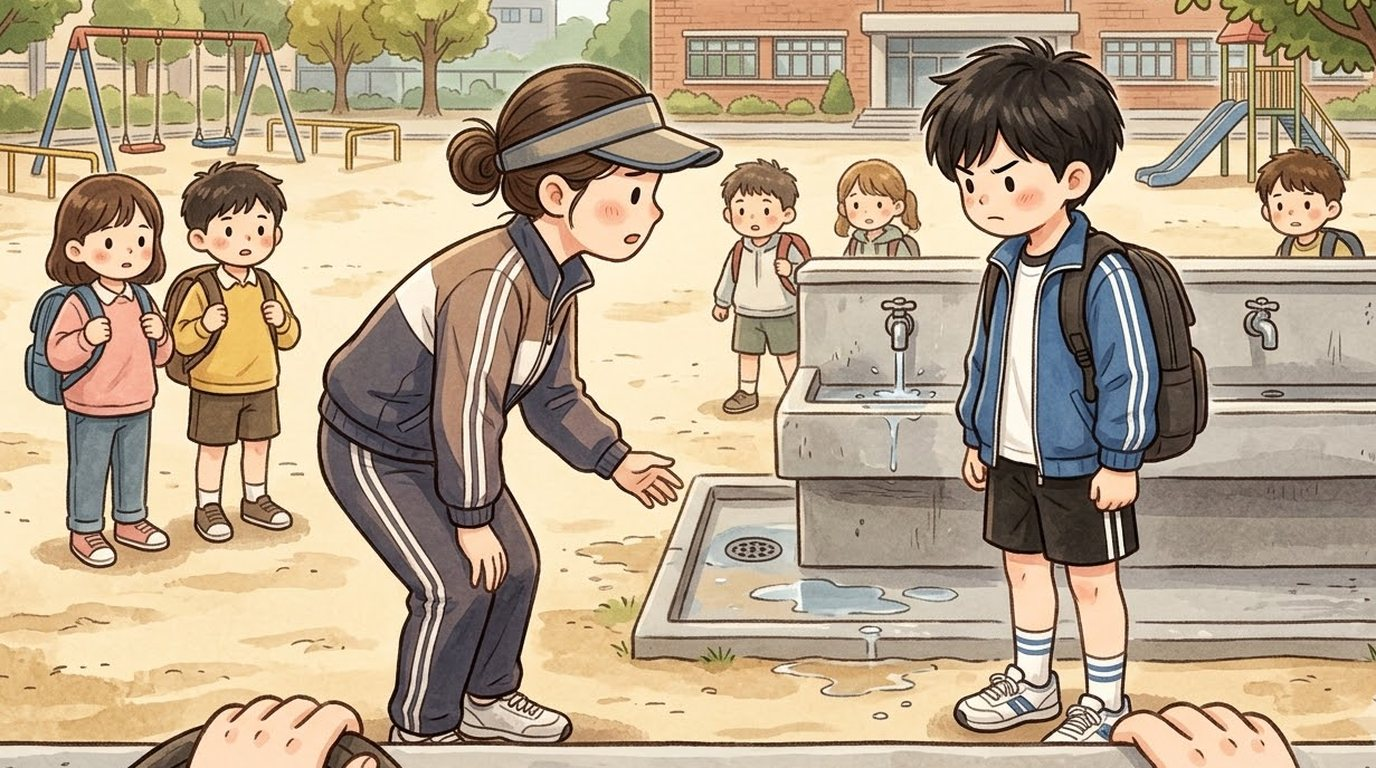
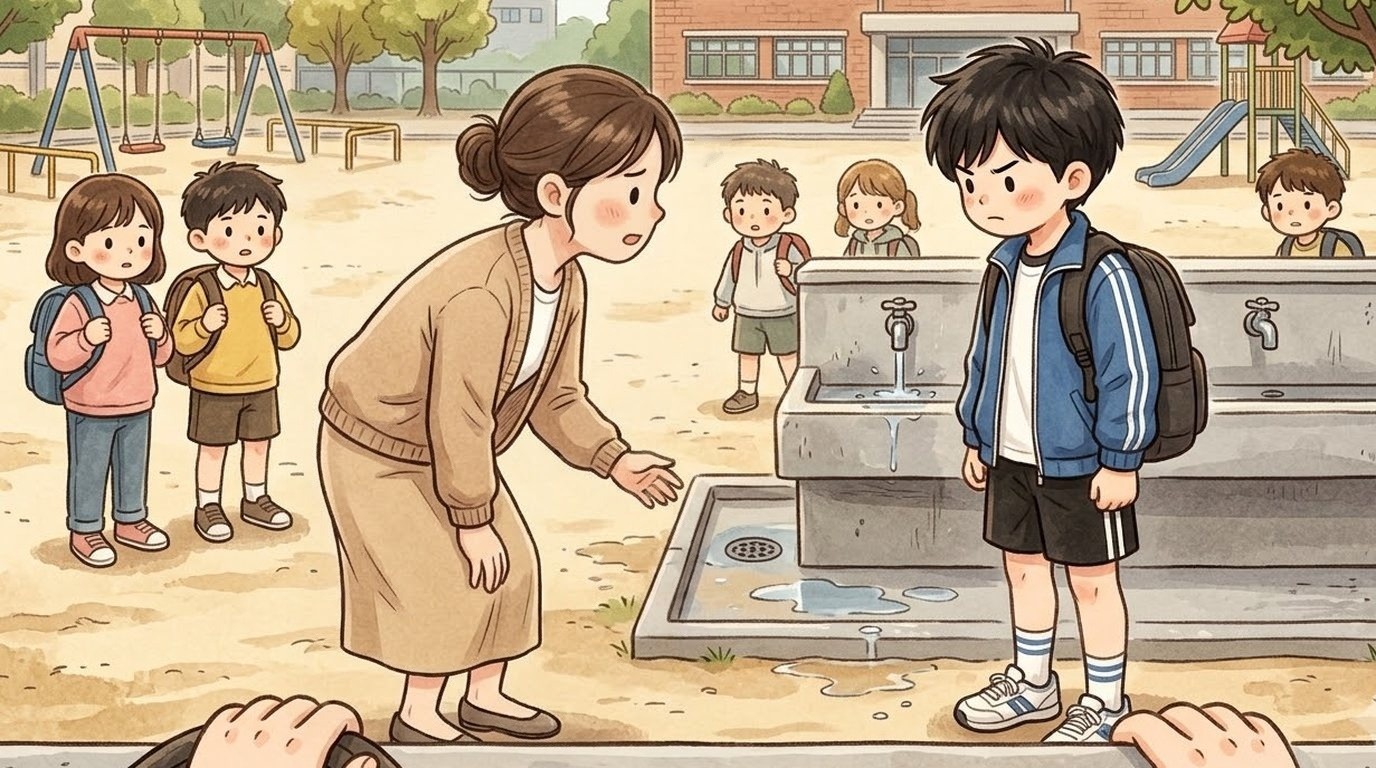
선생님 하의 통일: 첫날 복도 장면·준호 편 선생님 부르기 장면도 긴 낙타색 치마(모자·체육복 없앰)

Changed region(s): [[0.2188, 0.0625, 0.5312, 0.9688]]

diff --git a/index.html b/index.html
@@ -119,14 +119,14 @@ body,button{word-break:keep-all;overflow-wrap:break-word}
 <div id="fader"></div>
 <script>
 // same address, newest version: if the page this phone has kept is older than the one online, fetch the new one and reopen
-const BUILD='1111215847';
+const BUILD='1111221546';
 try{fetch(location.pathname,{cache:'no-store'}).then(r=>r.text()).then(t=>{const m=t.match(/const BUILD='(\d+)'/);if(m&&m[1]!==BUILD&&sessionStorage.getItem('upd')!==m[1]){sessionStorage.setItem('upd',m[1]);fetch(location.pathname,{cache:'reload'}).then(()=>location.reload())}}).catch(()=>{})}catch(e){}
 </script>
-<script src="i18n.js?v=1111215847"></script>
-<script src="i18n_prologue_v2.js?v=1111215847"></script>
-<script src="day2/i18n_engine.js?v=1111215847"></script>
-<script src="day2/data.js?v=1111215847"></script>
-<script src="day3/data.js?v=1111215847"></script>
+<script src="i18n.js?v=1111221546"></script>
+<script src="i18n_prologue_v2.js?v=1111221546"></script>
+<script src="day2/i18n_engine.js?v=1111221546"></script>
+<script src="day2/data.js?v=1111221546"></script>
+<script src="day3/data.js?v=1111221546"></script>
 <script>
 // ---------- data ----------
 const MW=1672,MH=941,KID=180;
@@ -573,37 +573,37 @@ function pickHero(){const m=document.getElementById('modal'),c=document.getEleme
  c.innerHTML=`<h2>${tr('전학생 반장되기')}</h2><p>${tr('한국말이 아직 서툰 전학생,<br>반장 선거에 나가다.')}</p><p style="margin-top:14px">${tr('누구로 할까요?')}</p>${(()=>{const s=loadSave();return s&&s.day>=2&&s.mode===UI+'-'+LANG?`<p><button class="big" id="cont">${tr('{n}일차부터 이어 하기').replace('{n}',s.day)}</button></p>`:''})()}<div class="pick heroes"><button data-h="hero_f"><img src="faces/hero_f_smile.jpg" alt="여자 주인공">${heroName(1)}</button><button data-h="hero_m"><img src="faces/hero_m_smile.jpg" alt="남자 주인공">${heroName(0)}</button></div>`;
  m.classList.add('on');{const cb=document.getElementById('cont');if(cb)cb.onclick=()=>{const s=loadSave();HERO=s.hero;Object.assign(HEART,s.heart||{});(s.found||[]).forEach(k=>FOUND.add(k));HEART_D1={...HEART};chime();(typeof contGame==='function'?contGame(s):startDay(Math.min(s.day,Object.keys(window.D3||{}).length?3:2)))}}c.querySelectorAll('.pick button').forEach(b=>b.onclick=()=>{HERO=b.dataset.h;m.classList.remove('on');chime();bgm('day');load('home_am');say([['nar','','이사 온 다음 날 아침. 아직 풀지 못한 상자들이 쌓여 있다.'],['think','sad','(오늘부터 새 학교야. 여기 말도 아직 서툰데…….)'],['think','smile','({m}한테 인사하고 학교 가야지.)']],morning)})}
 </script>
-<script src="day2/engine.js?v=1111215847"></script>
-<script src="day2/ep_minho.js?v=1111215847"></script>
-<script src="day2/meet.js?v=1111215847"></script>
-<script src="day2/ep_sua.js?v=1111215847"></script>
-<script src="day2/ep_hangyeol.js?v=1111215847"></script>
-<script src="day2/ep_siwoo.js?v=1111215847"></script>
-<script src="day2/ep_haram.js?v=1111215847"></script>
-<script src="day2/ep_jiho.js?v=1111215847"></script>
-<script src="day2/ep_hyeeun.js?v=1111215847"></script>
-<script src="day2/ep_haneul.js?v=1111215847"></script>
-<script src="day2/ep_junho.js?v=1111215847"></script>
-<script src="day2/ep_yuna.js?v=1111215847"></script>
-<script src="day2/ep_yena.js?v=1111215847"></script>
-<script src="day2/ep_haeun.js?v=1111215847"></script>
-<script src="day2/ep_youngmin.js?v=1111215847"></script>
-<script src="day2/ep_seah.js?v=1111215847"></script>
-<script src="day2/ep_jihoon.js?v=1111215847"></script>
-<script src="words_ja_ru.js?v=1111215847"></script>
-<script src="day2/mybag.js?v=1111215847"></script>
-<script src="day2/wordpics.js?v=1111215847"></script>
-<script src="day2/spots.js?v=1111215847"></script>
-<script src="day2/textfit.js?v=1111215847"></script>
-<script src="day2/tester.js?v=1111215847"></script>
-<script src="day2/ux.js?v=1111215847"></script>
-<script src="day2/tapword.js?v=1111215847"></script>
-<script src="day2/review.js?v=1111215847"></script>
-<script src="day2/plane.js?v=1111215847"></script>
-<script src="day2/bubble.js?v=1111215847"></script>
-<script src="day2/ep_ending.js?v=1111215847"></script>
-<script src="day2/ending.js?v=1111215847"></script>
-<script src="day2/stats.js?v=1111215847"></script>
+<script src="day2/engine.js?v=1111221546"></script>
+<script src="day2/ep_minho.js?v=1111221546"></script>
+<script src="day2/meet.js?v=1111221546"></script>
+<script src="day2/ep_sua.js?v=1111221546"></script>
+<script src="day2/ep_hangyeol.js?v=1111221546"></script>
+<script src="day2/ep_siwoo.js?v=1111221546"></script>
+<script src="day2/ep_haram.js?v=1111221546"></script>
+<script src="day2/ep_jiho.js?v=1111221546"></script>
+<script src="day2/ep_hyeeun.js?v=1111221546"></script>
+<script src="day2/ep_haneul.js?v=1111221546"></script>
+<script src="day2/ep_junho.js?v=1111221546"></script>
+<script src="day2/ep_yuna.js?v=1111221546"></script>
+<script src="day2/ep_yena.js?v=1111221546"></script>
+<script src="day2/ep_haeun.js?v=1111221546"></script>
+<script src="day2/ep_youngmin.js?v=1111221546"></script>
+<script src="day2/ep_seah.js?v=1111221546"></script>
+<script src="day2/ep_jihoon.js?v=1111221546"></script>
+<script src="words_ja_ru.js?v=1111221546"></script>
+<script src="day2/mybag.js?v=1111221546"></script>
+<script src="day2/wordpics.js?v=1111221546"></script>
+<script src="day2/spots.js?v=1111221546"></script>
+<script src="day2/textfit.js?v=1111221546"></script>
+<script src="day2/tester.js?v=1111221546"></script>
+<script src="day2/ux.js?v=1111221546"></script>
+<script src="day2/tapword.js?v=1111221546"></script>
+<script src="day2/review.js?v=1111221546"></script>
+<script src="day2/plane.js?v=1111221546"></script>
+<script src="day2/bubble.js?v=1111221546"></script>
+<script src="day2/ep_ending.js?v=1111221546"></script>
+<script src="day2/ending.js?v=1111221546"></script>
+<script src="day2/stats.js?v=1111221546"></script>
 <script>
 // the goal shows big for a few seconds, then folds into a small pill (tap it to open it again)
 {const g=document.getElementById('goal');let t=null;const big=()=>{g.classList.remove('mini');clearTimeout(t);t=setTimeout(()=>g.classList.add('mini'),4000)};
